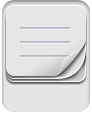
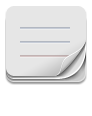
New image for unit

diff --git a/VocabularySishu/ViewController/MainView/VSSingleListView.m b/VocabularySishu/ViewController/MainView/VSSingleListView.m
@@ -29,9 +29,11 @@
 {
     self.theList = list;
     UIImage *listImage = [VSUtils fetchImg:@"Unit"];
+    UIImage *listHighlightImage = [VSUtils fetchImg:@"UnitHighLighted"];
     self.button = [[UIButton alloc] initWithFrame:CGRectMake(0, 0, listImage.size.width, listImage.size.height)];
-    [self.button setTitleColor:[UIColor blackColor] forState:UIControlStateNormal]; 
+    [self.button setTitleColor:[UIColor blackColor] forState:UIControlStateNormal];
     [self.button setBackgroundImage:listImage forState:UIControlStateNormal];
+    [self.button setBackgroundImage:listHighlightImage forState:UIControlStateHighlighted];
     [self.button addTarget:self action:@selector(toList) forControlEvents:UIControlEventTouchUpInside];
     [self addSubview:self.button];
     
